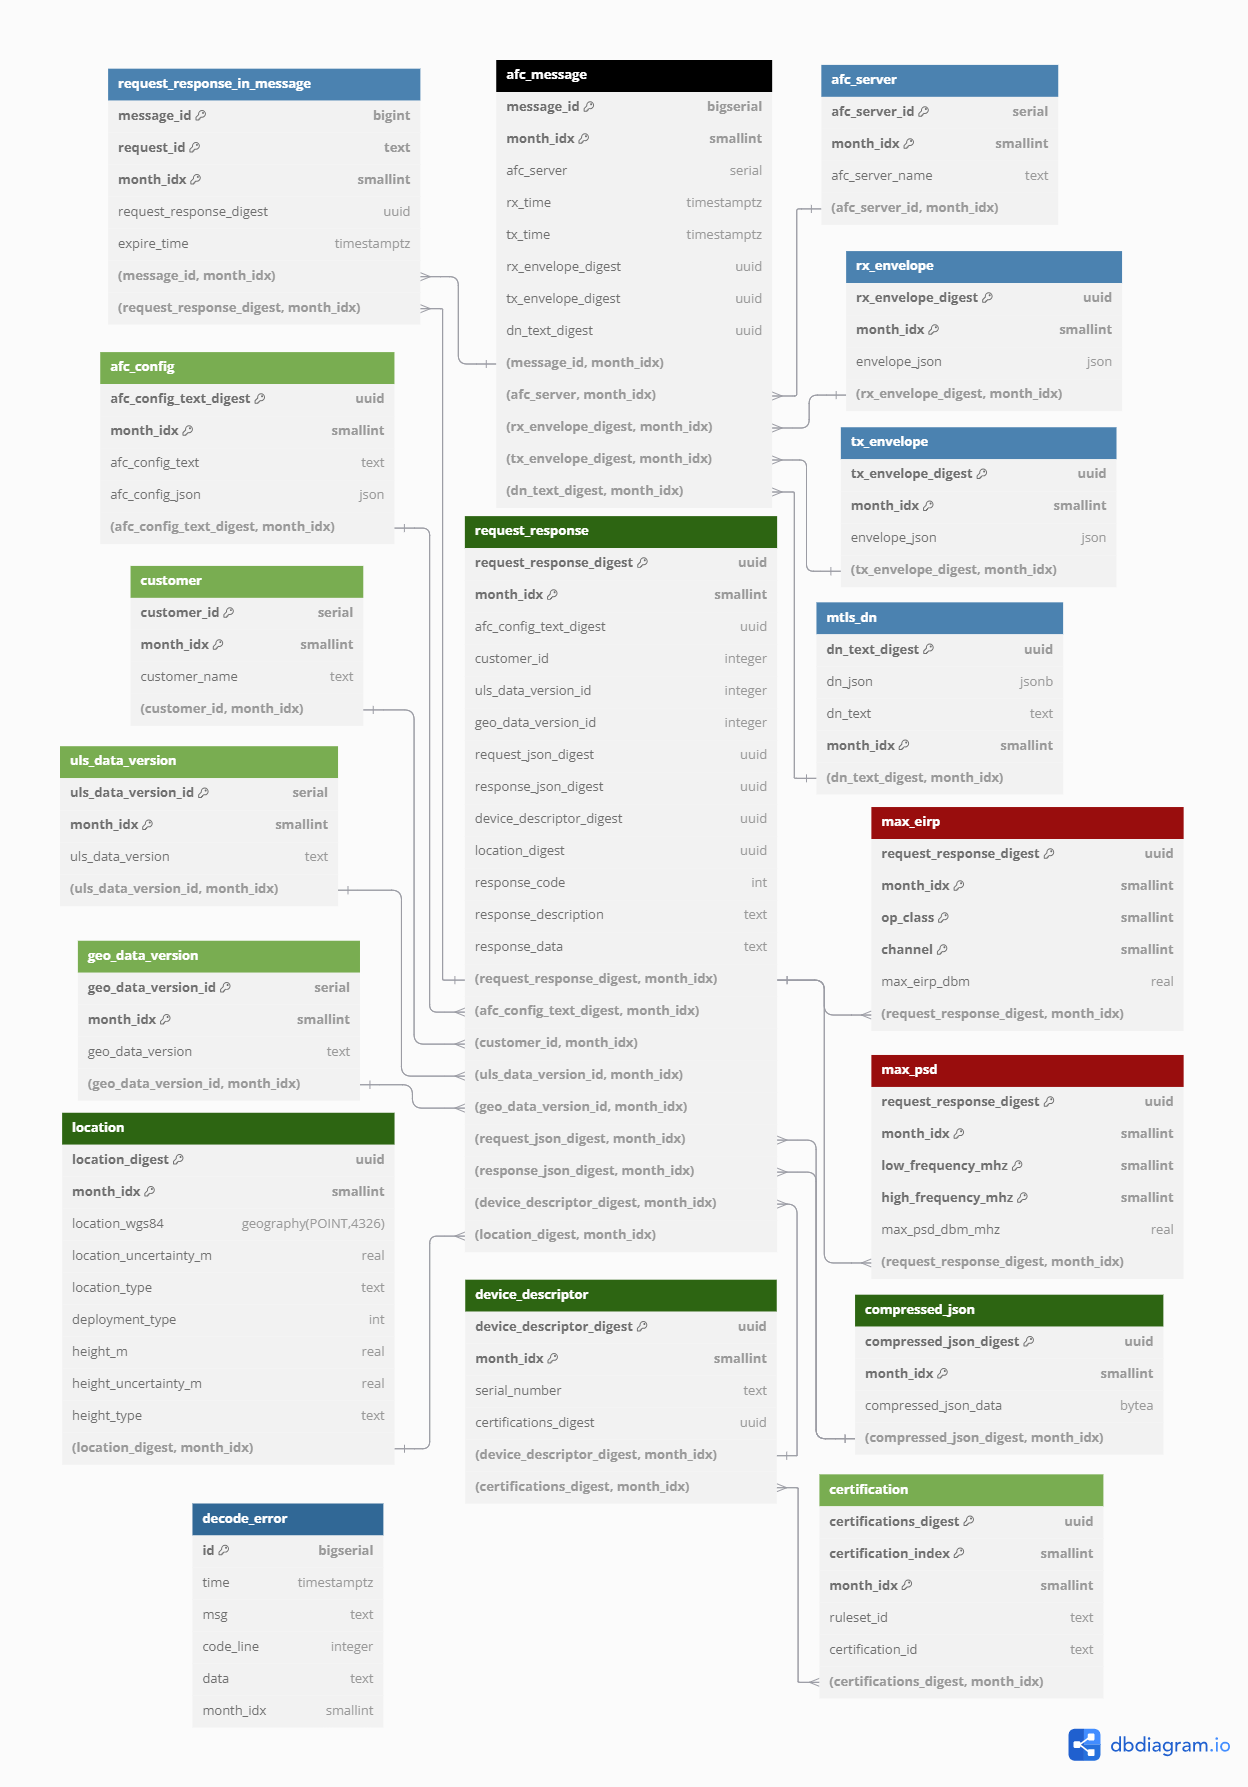
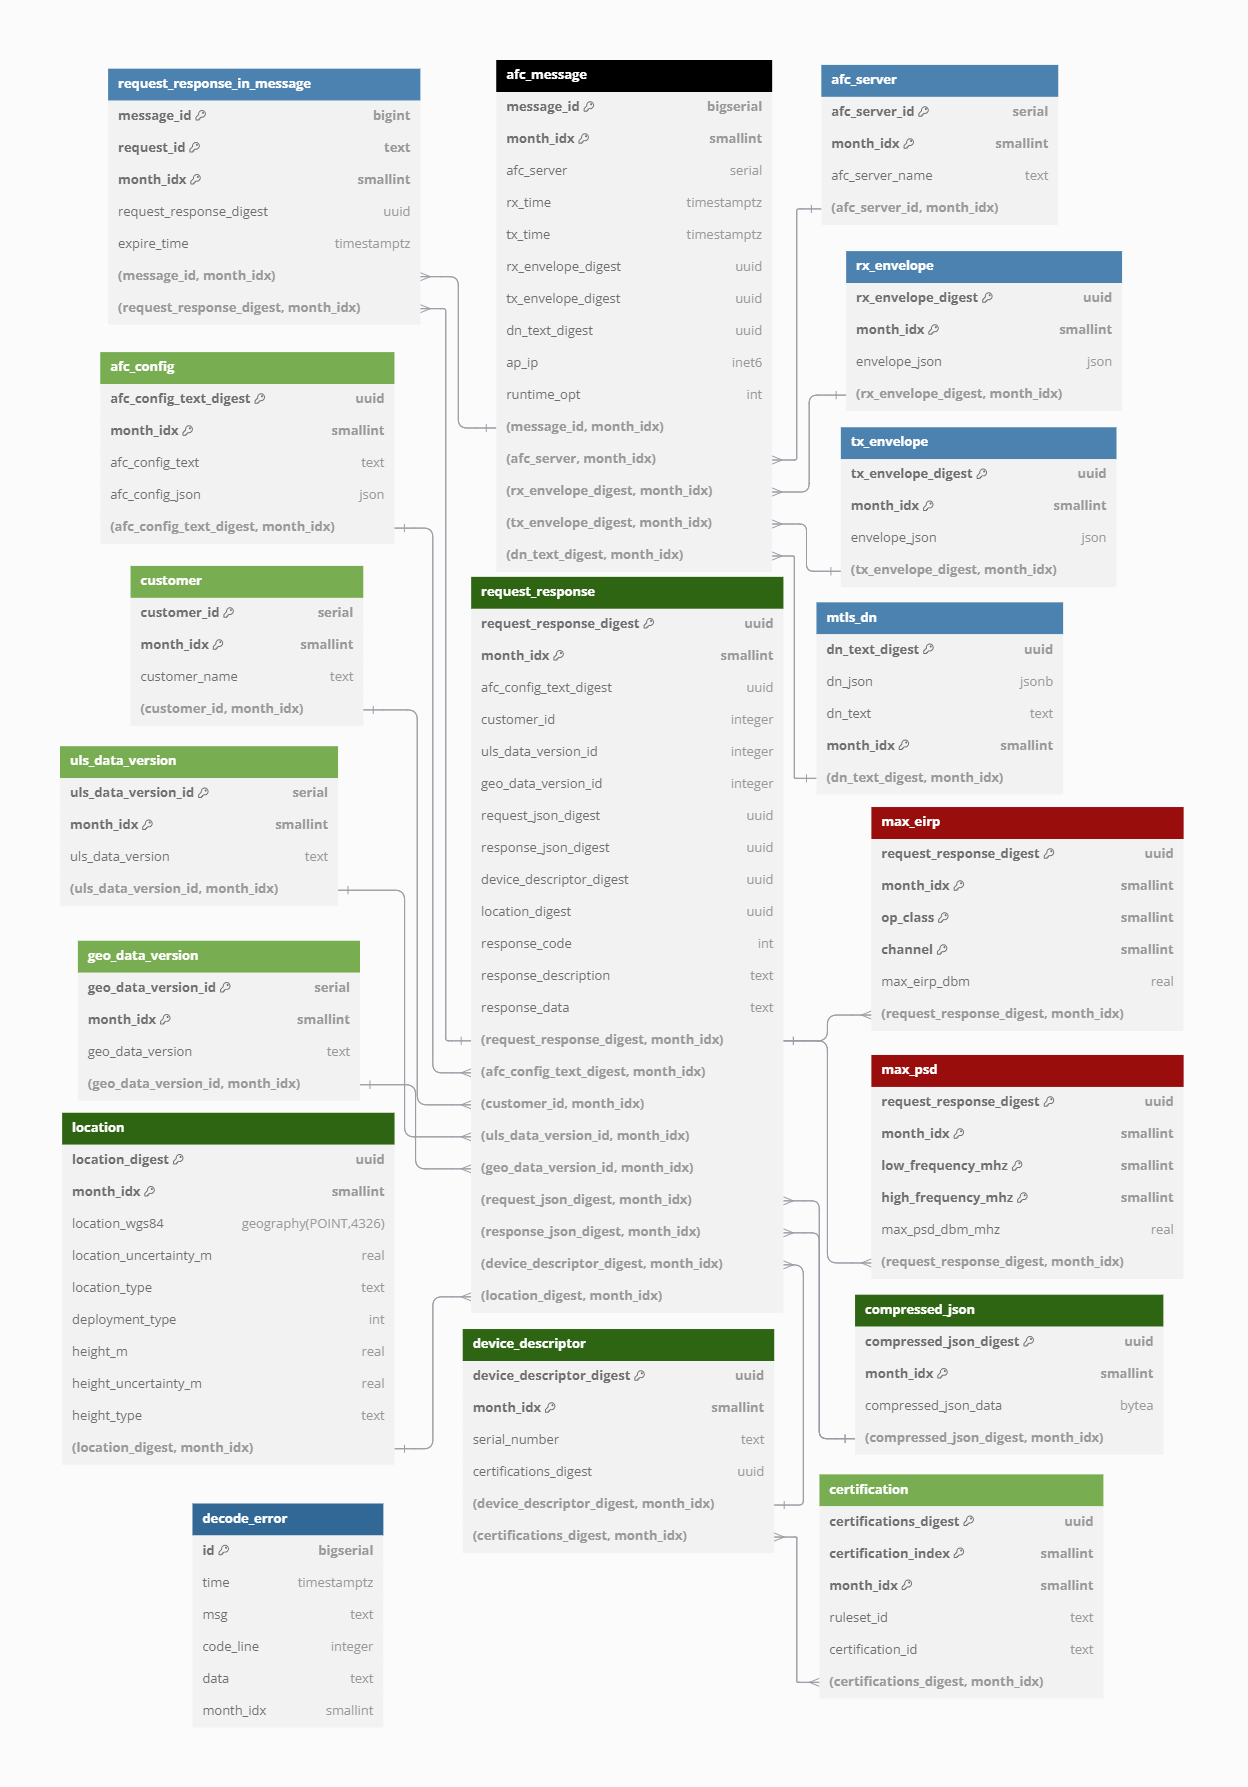
251. Adding ap_ip and runtime_opt columns (and some indices) to afc_message table - ap_ip and runtime_opt columns and indices on rx_envelope_digest, tx_envelope_digest and dn_text_digest aded to afc_message tale in dbdiagram.io - Source code from dbdiagram.io saved into ALS.dbml and exported to ALS_

diff --git a/als/als_migrations/versions/2024_11_27-cc1c9db1c90d_add_ap_ip_and_runtime_opt.py b/als/als_migrations/versions/2024_11_27-cc1c9db1c90d_add_ap_ip_and_runtime_opt.py
@@ -1,0 +1,40 @@
+"""add ap_ip and runtime_opt
+
+Revision ID: cc1c9db1c90d
+Revises: 87a874c761f8
+Create Date: 2024-11-27 04:52:28.711749
+
+"""
+from alembic import op
+import sqlalchemy as sa
+import sqlalchemy.dialects.postgresql as sa_pg
+
+
+# revision identifiers, used by Alembic.
+revision = 'cc1c9db1c90d'
+down_revision = '87a874c761f8'
+branch_labels = None
+depends_on = None
+
+
+def upgrade() -> None:
+    op.add_column(
+        "afc_message", sa.Column("ap_ip", sa_pg.INET(), index=True))
+    op.add_column(
+        "afc_message", sa.Column("runtime_opt", sa.Integer(), index=True))
+    op.create_index(
+        "afc_message_rx_envelope_digest_idx", "afc_message",
+        ["rx_envelope_digest"])
+    op.create_index(
+        "afc_message_tx_envelope_digest_idx", "afc_message",
+        ["tx_envelope_digest"])
+    op.create_index(
+        "afc_message_dn_text_digest_idx", "afc_message", ["dn_text_digest"])
+
+
+def downgrade() -> None:
+    op.drop_column("afc_message", "ap_ip")
+    op.drop_column("afc_message", "runtime_opt")
+    op.drop_index("afc_message_rx_envelope_digest_idx", "afc_message")
+    op.drop_index("afc_message_tx_envelope_digest_idx", "afc_message")
+    op.drop_index("afc_message_dn_text_digest_idx", "afc_message")
